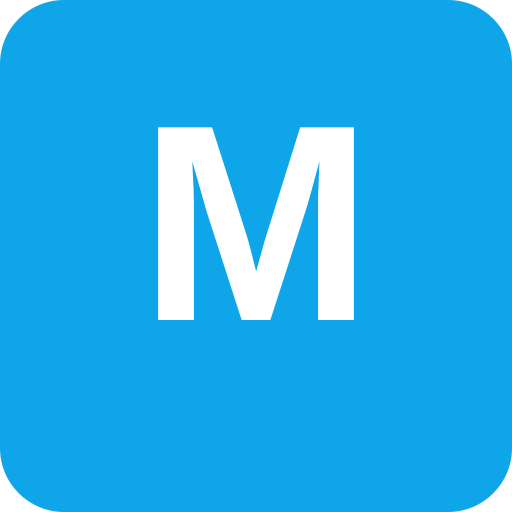
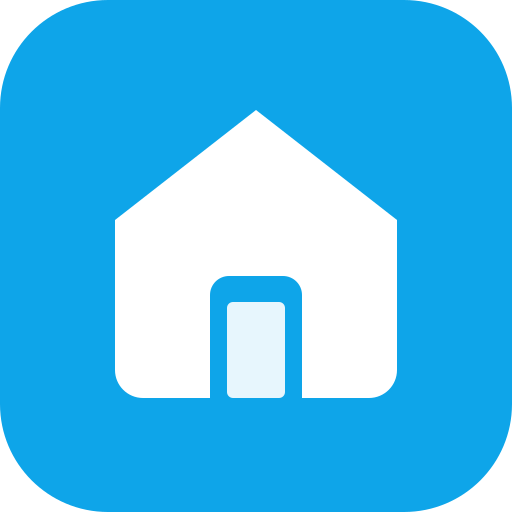
Add Messier branding
- Created logo and icon SVGs (house with sparkle)
- Generated PWA icons (192px, 512px, apple-touch)
- Created favicon and OG image
- Updated app layout with proper meta tags and SEO
- Created BRANDING.md style guide
- Added logo to login page and sidebar
- Improved typography and visual hierarchy

diff --git a/scripts/generate-icons.js b/scripts/generate-icons.js
@@ -1,0 +1,79 @@
+// Generate PWA icons and logos
+// Run: node scripts/generate-icons.js
+
+const fs = require('fs');
+const path = require('path');
+
+// SVG template for the logo
+const createLogoSVG = (size, variant = 'full') => {
+  const scale = size / 512;
+  
+  const templates = {
+    full: `
+<svg width="${size}" height="${size}" viewBox="0 0 512 512" fill="none" xmlns="http://www.w3.org/2000/svg">
+  <defs>
+    <linearGradient id="bgGrad" x1="0%" y1="0%" x2="100%" y2="100%">
+      <stop offset="0%" style="stop-color:#0ea5e9;stop-opacity:1" />
+      <stop offset="100%" style="stop-color:#0284c7;stop-opacity:1" />
+    </linearGradient>
+  </defs>
+  
+  <!-- Background -->
+  <rect width="512" height="512" rx="108" fill="url(#bgGrad)"/>
+  
+  <!-- House -->
+  <path d="M256 110L115 220V370C115 385.464 127.536 398 143 398H210V295C210 284.507 218.507 276 229 276H283C293.493 276 302 284.507 302 295V398H369C384.464 398 397 385.464 397 370V220L256 110Z" fill="white"/>
+  
+  <!-- Door -->
+  <rect x="227" y="302" width="58" height="96" rx="6" fill="#0ea5e9"/>
+  <circle cx="272" cy="352" r="5" fill="white"/>
+  
+  <!-- Sparkle -->
+  <circle cx="355" cy="165" r="28" fill="#fbbf24"/>
+  <path d="M355 137L359.5 155.5L378 160L359.5 164.5L355 183L350.5 164.5L332 160L350.5 155.5L355 137Z" fill="white"/>
+</svg>`,
+    
+    icon: `
+<svg width="${size}" height="${size}" viewBox="0 0 512 512" fill="none" xmlns="http://www.w3.org/2000/svg">
+  <!-- Background -->
+  <rect width="512" height="512" rx="108" fill="#0ea5e9"/>
+  
+  <!-- House simplified -->
+  <path d="M256 110L115 220V370C115 385.464 127.536 398 143 398H210V295C210 284.507 218.507 276 229 276H283C293.493 276 302 284.507 302 295V398H369C384.464 398 397 385.464 397 370V220L256 110Z" fill="white"/>
+  
+  <!-- Door -->
+  <rect x="227" y="302" width="58" height="96" rx="6" fill="white" fill-opacity="0.9"/>
+</svg>`,
+    
+    mark: `
+<svg width="${size}" height="${size}" viewBox="0 0 512 512" fill="none" xmlns="http://www.w3.org/2000/svg">
+  <!-- Background -->
+  <rect width="512" height="512" rx="108" fill="#0ea5e9"/>
+  
+  <!-- House mark -->
+  <path d="M256 100L100 220V400H200V300H312V400H412V220L256 100Z" fill="white"/>
+  <rect x="230" y="320" width="52" height="80" fill="#0ea5e9"/>
+</svg>`
+  };
+  
+  return templates[variant] || templates.full;
+};
+
+// Generate Apple Touch Icon (simplified)
+const appleTouchIcon = `<svg width="180" height="180" viewBox="0 0 512 512" fill="none" xmlns="http://www.w3.org/2000/svg">
+  <rect width="512" height="512" fill="#0ea5e9"/>
+  <path d="M256 100L100 220V400H200V300H312V400H412V220L256 100Z" fill="white"/>
+  <rect x="230" y="320" width="52" height="80" fill="#0ea5e9"/>
+</svg>`;
+
+// Write SVGs
+const publicDir = path.join(__dirname, '..', 'public');
+
+fs.writeFileSync(path.join(publicDir, 'icon-192.svg'), createLogoSVG(192, 'icon'));
+fs.writeFileSync(path.join(publicDir, 'icon-512.svg'), createLogoSVG(512, 'icon'));
+fs.writeFileSync(path.join(publicDir, 'logo.svg'), createLogoSVG(512, 'full'));
+fs.writeFileSync(path.join(publicDir, 'logo-mark.svg'), createLogoSVG(512, 'mark'));
+fs.writeFileSync(path.join(publicDir, 'apple-touch-icon.svg'), appleTouchIcon);
+
+console.log('✅ SVG icons generated');
+console.log('Note: Convert to PNG using a tool like sharp or online converter');

diff --git a/src/components/dashboard-layout.tsx b/src/components/dashboard-layout.tsx
@@ -62,7 +62,14 @@ export default function DashboardLayout({ children }: DashboardLayoutProps) {
         <button onClick={() => setSidebarOpen(true)} className="p-2 rounded-lg hover:bg-gray-100">
           <Menu className="w-6 h-6" />
         </button>
-        <h1 className="font-bold text-primary-600">{t('app.name')}</h1>
+        <div className="flex items-center gap-2">
+          <svg viewBox="0 0 512 512" className="w-7 h-7" fill="none" xmlns="http://www.w3.org/2000/svg">
+            <rect width="512" height="512" rx="108" fill="#0ea5e9"/>
+            <path d="M256 110L115 220V370C115 385.464 127.536 398 143 398H210V295C210 284.507 218.507 276 229 276H283C293.493 276 302 284.507 302 295V398H369C384.464 398 397 385.464 397 370V220L256 110Z" fill="white"/>
+            <rect x="227" y="302" width="58" height="96" rx="6" fill="#0ea5e9"/>
+          </svg>
+          <span className="font-bold text-gray-900">Messier</span>
+        </div>
         <div className="w-10" />
       </div>
 
@@ -82,7 +89,14 @@ export default function DashboardLayout({ children }: DashboardLayoutProps) {
       `}>
         <div className="p-6">
           <div className="flex items-center justify-between">
-            <h1 className="text-2xl font-bold text-primary-600">{t('app.name')}</h1>
+            <div className="flex items-center gap-3">
+              <svg viewBox="0 0 512 512" className="w-8 h-8" fill="none" xmlns="http://www.w3.org/2000/svg">
+                <rect width="512" height="512" rx="108" fill="#0ea5e9"/>
+                <path d="M256 110L115 220V370C115 385.464 127.536 398 143 398H210V295C210 284.507 218.507 276 229 276H283C293.493 276 302 284.507 302 295V398H369C384.464 398 397 385.464 397 370V220L256 110Z" fill="white"/>
+                <rect x="227" y="302" width="58" height="96" rx="6" fill="#0ea5e9"/>
+              </svg>
+              <span className="text-xl font-bold text-gray-900">Messier</span>
+            </div>
             <button onClick={() => setSidebarOpen(false)} className="lg:hidden p-1 hover:bg-gray-100 rounded">
               <X className="w-5 h-5" />
             </button>

diff --git a/src/app/layout.tsx b/src/app/layout.tsx
@@ -5,8 +5,15 @@ import './globals.css';
 const inter = Inter({ subsets: ['latin'] });
 
 export const metadata: Metadata = {
-  title: 'Messier - Property Housekeeping',
-  description: 'Property housekeeping management for overnight rentals',
+  title: {
+    default: 'Messier - Property Housekeeping',
+    template: '%s | Messier'
+  },
+  description: 'Professional housekeeping management for vacation rentals, Airbnb properties, and short-term stays. Track cleanings, manage teams, and streamline operations.',
+  keywords: ['housekeeping', 'property management', 'vacation rental', 'airbnb', 'cleaning', 'short-term rental', 'hospitality'],
+  authors: [{ name: 'Messier' }],
+  creator: 'Messier',
+  publisher: 'Messier',
   manifest: '/manifest.json',
   appleWebApp: {
     capable: true,
@@ -15,6 +22,28 @@ export const metadata: Metadata = {
   },
   formatDetection: {
     telephone: false
+  },
+  openGraph: {
+    type: 'website',
+    locale: 'en_US',
+    url: 'https://messier.app',
+    siteName: 'Messier',
+    title: 'Messier - Property Housekeeping',
+    description: 'Professional housekeeping management for vacation rentals and short-term stays',
+    images: [
+      {
+        url: '/og-image.png',
+        width: 1200,
+        height: 630,
+        alt: 'Messier - Property Housekeeping'
+      }
+    ]
+  },
+  twitter: {
+    card: 'summary_large_image',
+    title: 'Messier - Property Housekeeping',
+    description: 'Professional housekeeping management for vacation rentals and short-term stays',
+    images: ['/og-image.png']
   },
   icons: {
     icon: [
@@ -48,6 +77,8 @@ export default function RootLayout({
         <meta name="mobile-web-app-capable" content="yes" />
         <meta name="apple-mobile-web-app-capable" content="yes" />
         <meta name="apple-mobile-web-app-status-bar-style" content="default" />
+        <link rel="preconnect" href="https://fonts.googleapis.com" />
+        <link rel="preconnect" href="https://fonts.gstatic.com" crossOrigin="anonymous" />
       </head>
       <body className={inter.className}>{children}</body>
     </html>

diff --git a/src/app/[locale]/login-page.tsx b/src/app/[locale]/login-page.tsx
@@ -56,10 +56,18 @@ export default function LoginPage({ locale }: { locale: string }) {
 
   return (
     <div className="min-h-screen flex items-center justify-center bg-gradient-to-br from-primary-50 to-primary-100 p-4">
-      <div className="max-w-md w-full space-y-8 bg-white p-8 rounded-2xl shadow-xl">
+      <div className="max-w-md w-full space-y-6 bg-white p-8 rounded-2xl shadow-xl">
         <div className="text-center">
-          <h1 className="text-4xl font-bold text-primary-600">{t('app.name')}</h1>
-          <p className="mt-2 text-gray-600">{t('app.tagline')}</p>
+          {/* Logo */}
+          <div className="mx-auto w-16 h-16 mb-4">
+            <svg viewBox="0 0 512 512" fill="none" xmlns="http://www.w3.org/2000/svg">
+              <rect width="512" height="512" rx="108" fill="#0ea5e9"/>
+              <path d="M256 110L115 220V370C115 385.464 127.536 398 143 398H210V295C210 284.507 218.507 276 229 276H283C293.493 276 302 284.507 302 295V398H369C384.464 398 397 385.464 397 370V220L256 110Z" fill="white"/>
+              <rect x="227" y="302" width="58" height="96" rx="6" fill="#0ea5e9"/>
+            </svg>
+          </div>
+          <h1 className="text-3xl font-bold text-gray-900">Messier</h1>
+          <p className="mt-2 text-gray-600">Property Housekeeping</p>
         </div>
         
         <form className="mt-8 space-y-6" onSubmit={handleSubmit}>

diff --git a/scripts/generate-favicon.js b/scripts/generate-favicon.js
@@ -1,0 +1,30 @@
+const sharp = require('sharp');
+const path = require('path');
+const fs = require('fs');
+
+const publicDir = path.join(__dirname, '..', 'public');
+
+async function generateFavicon() {
+  // Generate favicon.png (32x32)
+  await sharp(path.join(publicDir, 'logo-mark.svg'))
+    .resize(32, 32)
+    .png()
+    .toFile(path.join(publicDir, 'favicon-32.png'));
+  console.log('✅ favicon-32.png created');
+
+  // Generate favicon.png (16x16)
+  await sharp(path.join(publicDir, 'logo-mark.svg'))
+    .resize(16, 16)
+    .png()
+    .toFile(path.join(publicDir, 'favicon-16.png'));
+  console.log('✅ favicon-16.png created');
+
+  // Generate og-image.png (1200x630)
+  await sharp(path.join(publicDir, 'logo.svg'))
+    .resize(1200, 630, { fit: 'contain', background: { r: 255, g: 255, b: 255, alpha: 1 } })
+    .png()
+    .toFile(path.join(publicDir, 'og-image.png'));
+  console.log('✅ og-image.png created');
+}
+
+generateFavicon().catch(console.error);

diff --git a/scripts/svg-to-png.js b/scripts/svg-to-png.js
@@ -1,0 +1,32 @@
+// Convert SVG icons to PNG using sharp
+const sharp = require('sharp');
+const path = require('path');
+const fs = require('fs');
+
+const publicDir = path.join(__dirname, '..', 'public');
+
+const icons = [
+  { svg: 'icon-192.svg', png: 'icon-192.png', size: 192 },
+  { svg: 'icon-512.svg', png: 'icon-512.png', size: 512 },
+  { svg: 'apple-touch-icon.svg', png: 'apple-touch-icon.png', size: 180 },
+];
+
+async function convertIcons() {
+  for (const icon of icons) {
+    const svgPath = path.join(publicDir, icon.svg);
+    const pngPath = path.join(publicDir, icon.png);
+    
+    try {
+      await sharp(svgPath)
+        .resize(icon.size, icon.size)
+        .png()
+        .toFile(pngPath);
+      
+      console.log(`✅ ${icon.png} created`);
+    } catch (error) {
+      console.error(`❌ Error creating ${icon.png}:`, error.message);
+    }
+  }
+}
+
+convertIcons();

diff --git a/BRANDING.md b/BRANDING.md
@@ -1,0 +1,122 @@
+# Messier Brand Guide
+
+## Brand Identity
+
+**Messier** is a professional housekeeping management platform for vacation rentals, Airbnb properties, and short-term stays.
+
+## Logo
+
+### Primary Logo
+- **File**: `/public/logo.svg`
+- **Usage**: Marketing materials, website header, presentations
+- **Clear space**: Minimum 20% of logo height on all sides
+
+### Icon/Mark
+- **File**: `/public/logo-mark.svg`
+- **Usage**: App icons, favicons, social media avatars
+- **Sizes**: 32px (favicon), 192px (PWA), 512px (PWA)
+
+## Colors
+
+### Primary Colors
+| Name | Hex | Usage |
+|------|-----|-------|
+| Primary Sky | `#0ea5e9` | Primary buttons, links, active states |
+| Primary Dark | `#0284c7` | Hover states, headers |
+
+### Accent Colors
+| Name | Hex | Usage |
+|------|-----|-------|
+| Gold/Sparkle | `#fbbf24` | Premium features, highlights |
+| Success | `#22c55e` | Completed status, success messages |
+| Warning | `#f59e0b` | Pending status, alerts |
+| Danger | `#ef4444` | Errors, issues |
+
+### Neutral Colors
+| Name | Hex | Usage |
+|------|-----|-------|
+| White | `#ffffff` | Backgrounds, cards |
+| Gray 50 | `#f9fafb` | Page backgrounds |
+| Gray 100 | `#f3f4f6` | Hover states |
+| Gray 500 | `#6b7280` | Secondary text |
+| Gray 900 | `#111827` | Primary text |
+
+## Typography
+
+### Font Family
+- **Primary**: Inter (Google Fonts)
+- **Fallback**: system-ui, sans-serif
+
+### Font Weights
+- Regular: 400 (body text)
+- Medium: 500 (labels, buttons)
+- Semibold: 600 (headings)
+- Bold: 700 (titles)
+
+### Type Scale
+- Display: `2rem` (32px) - Page titles
+- H1: `1.5rem` (24px) - Section headers
+- H2: `1.25rem` (20px) - Card titles
+- H3: `1rem` (16px) - Subsections
+- Body: `0.875rem` (14px) - Regular text
+- Caption: `0.75rem` (12px) - Helper text
+
+## Spacing
+
+Use Tailwind CSS spacing scale:
+- `1` = 0.25rem (4px)
+- `2` = 0.5rem (8px)
+- `3` = 0.75rem (12px)
+- `4` = 1rem (16px)
+- `6` = 1.5rem (24px)
+- `8` = 2rem (32px)
+
+## Components
+
+### Buttons
+- **Primary**: `bg-primary-600 text-white hover:bg-primary-700`
+- **Secondary**: `bg-gray-100 text-gray-900 hover:bg-gray-200`
+- **Danger**: `bg-red-600 text-white hover:bg-red-700`
+- **Rounded**: `rounded-lg` (8px radius)
+
+### Cards
+- Background: `bg-white`
+- Shadow: `shadow-sm`
+- Radius: `rounded-xl` (12px)
+- Padding: `p-6` (24px)
+
+### Form Inputs
+- Border: `border-gray-300`
+- Focus: `focus:ring-2 focus:ring-primary-500 focus:border-transparent`
+- Radius: `rounded-lg` (8px)
+
+## Icon Guidelines
+
+- Use Lucide icons consistently
+- Size: 20px for inline, 24px for standalone
+- Color: Match text color or use primary color
+
+## App Name Usage
+
+- **Full**: "Messier - Property Housekeeping"
+- **Short**: "Messier"
+- **Tagline**: "Housekeeping made simple"
+
+## Social Media
+
+- **Handle**: @messierapp
+- **Bio**: Professional housekeeping management for vacation rentals
+
+## Files
+
+```
+public/
+├── logo.svg           # Primary logo (512x512)
+├── logo-mark.svg      # Icon only (512x512)
+├── icon-192.png       # PWA icon (192x192)
+├── icon-512.png       # PWA icon (512x512)
+├── apple-touch-icon.png  # iOS (180x180)
+├── favicon-32.png     # Browser tab (32x32)
+├── favicon-16.png     # Browser tab (16x16)
+└── og-image.png       # Social sharing (1200x630)
+```
